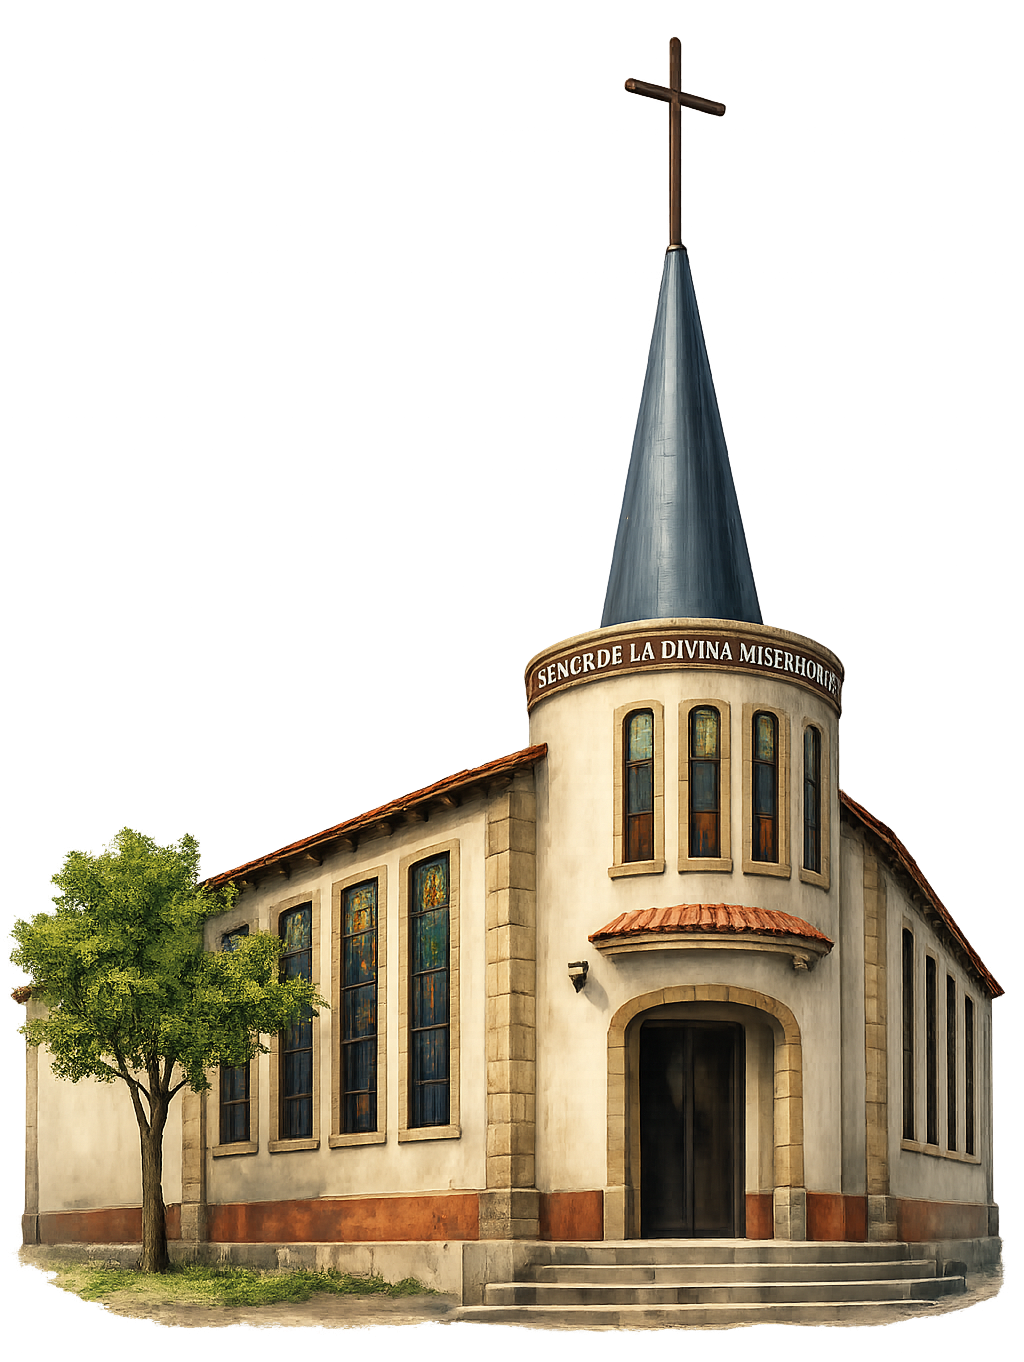
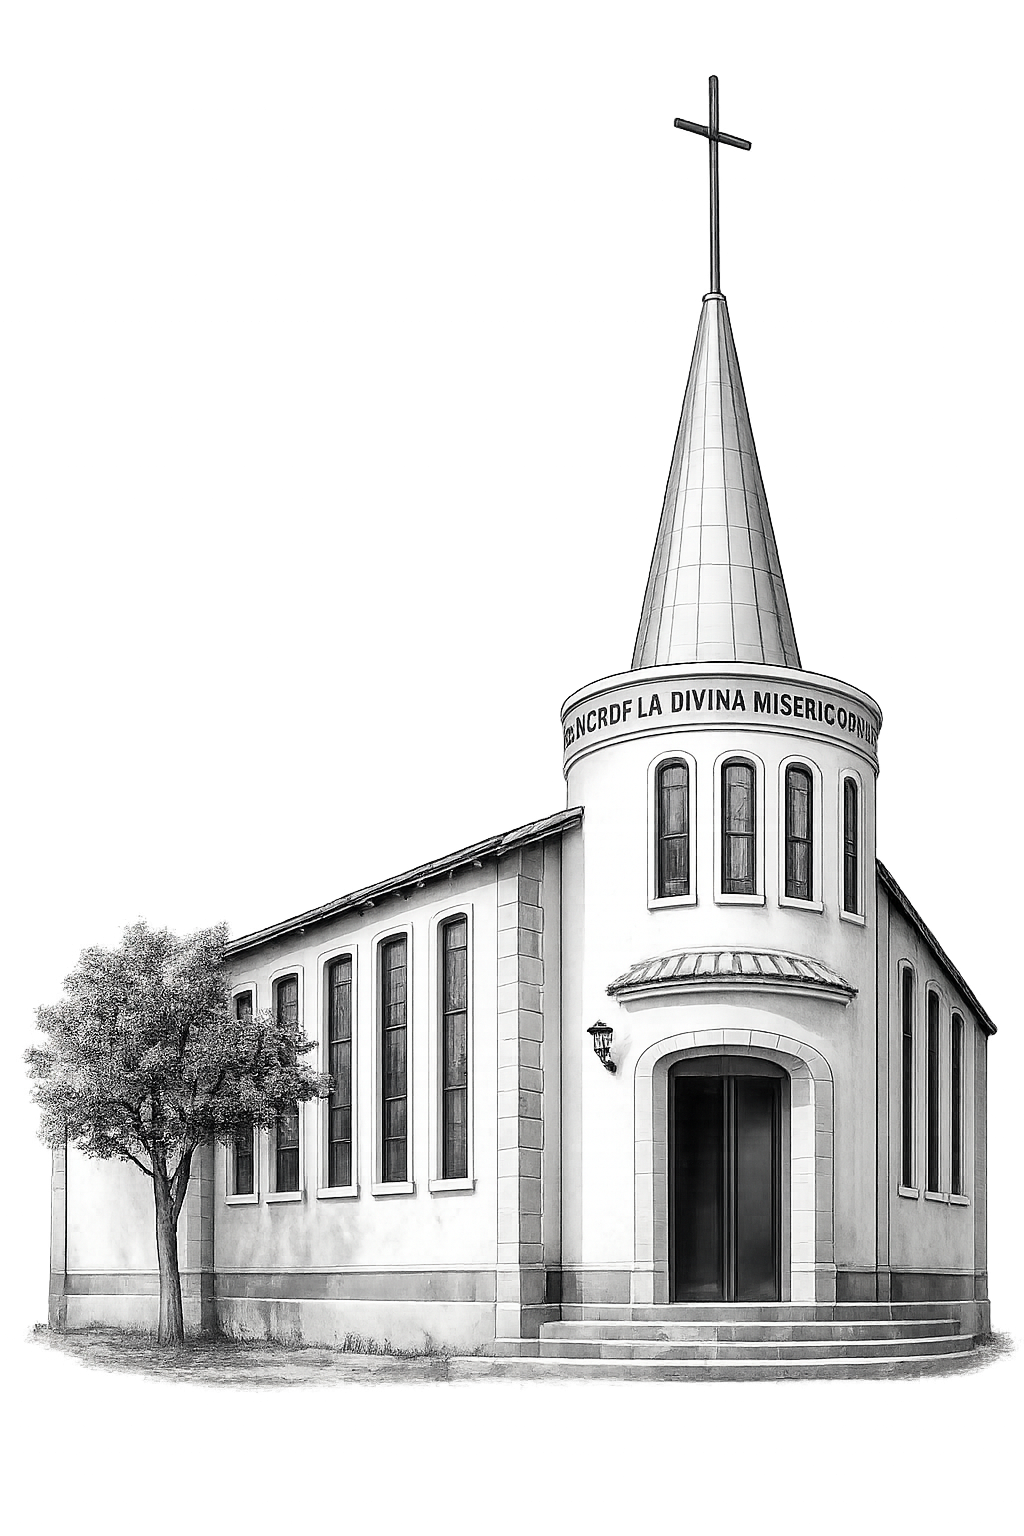
cinco

diff --git a/styles.css b/styles.css
@@ -660,7 +660,7 @@ body {
   ----------------------------- */
 
   .details-img-top {
-    width: clamp(120px, 20vw, 180px);
+    width: clamp(140px, 24vw, 200px);
     height: auto;
     margin-top: clamp(40px, 8vw, 60px);
   }
@@ -691,7 +691,7 @@ body {
     font-family: var(--font-script);
     font-size: clamp(42px, 6vw, 70px);
     color: white;
-    margin-top: -10px
+    margin-top: -8px
   }
 
   .details-subtitle {